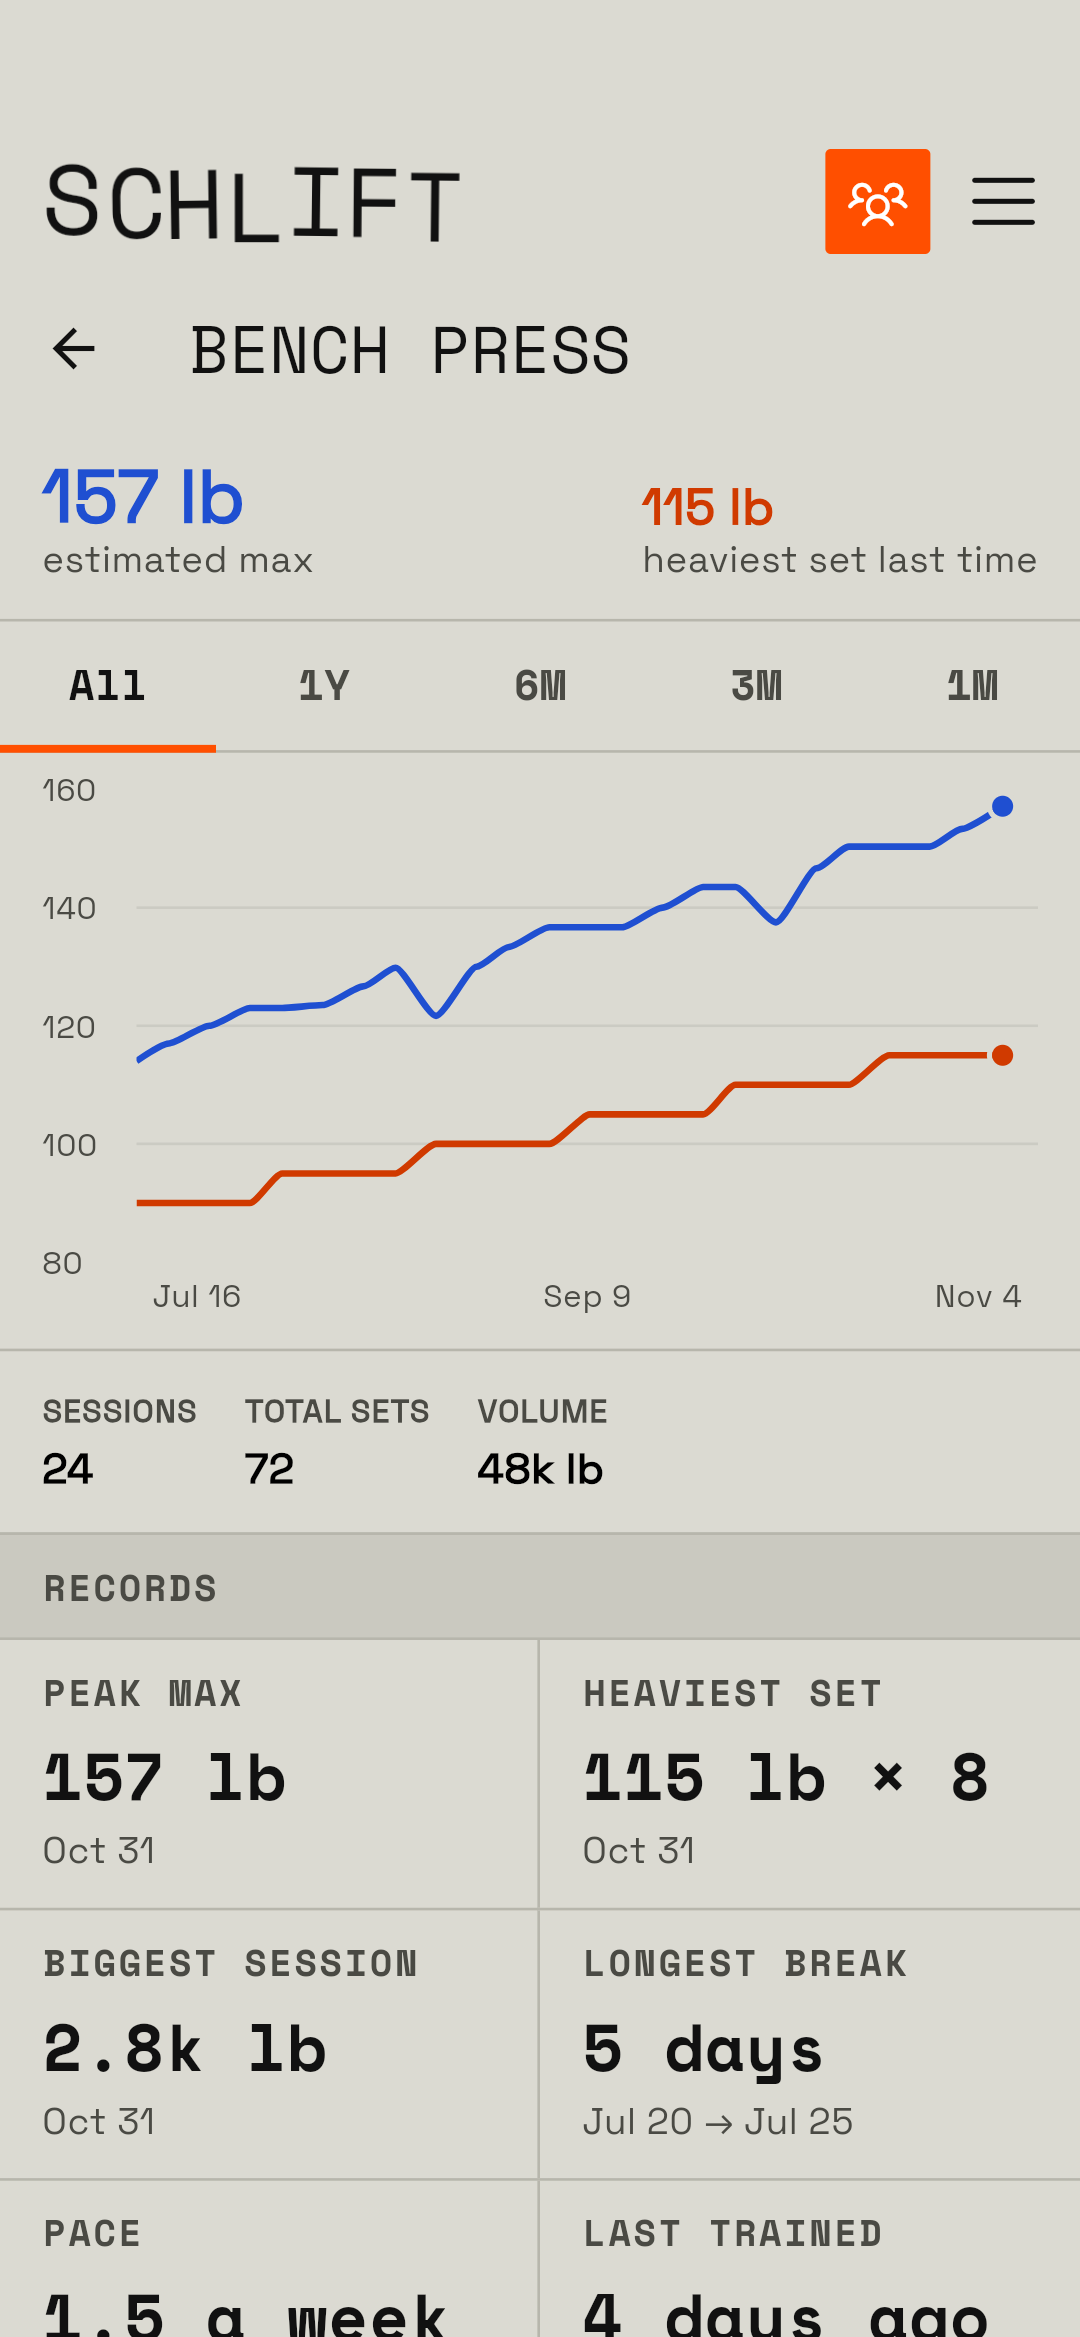
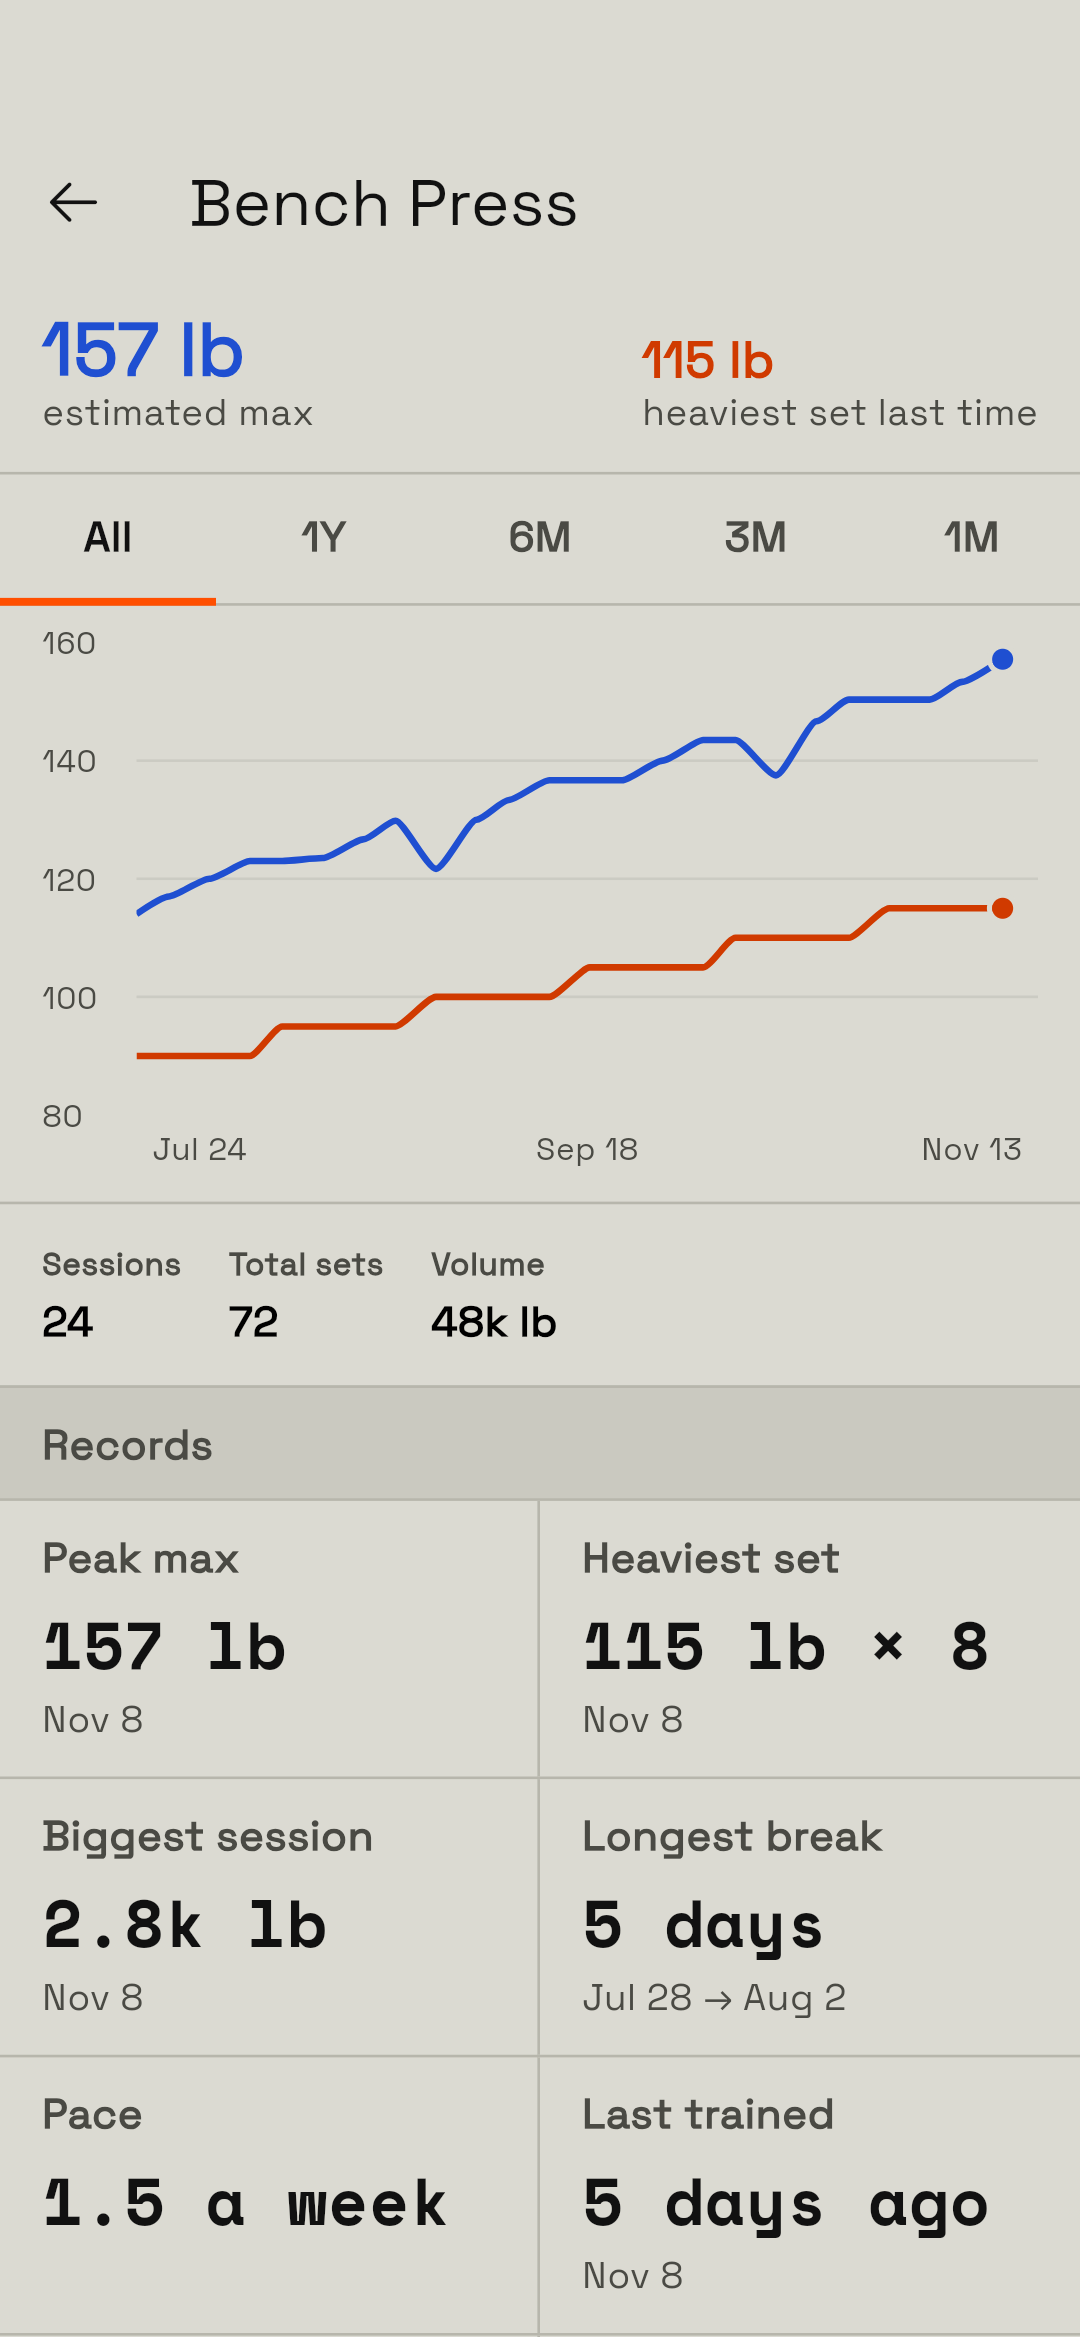
Scenarios, snapshots and store pictures for the new look
- e2e scenarios open the menu from home, and look for the new wording.
- Golden views carry the new (empty) motivation field: nothing else moved.
- Website: live status and motivation in the feature list, with drawings;
  the existing drawings lose their capitals.
- Store screenshots re-shot.
- The warmup/working row labels fit their rows again.

diff --git a/web/src/components/feature-art.tsx b/web/src/components/feature-art.tsx
@@ -17,7 +17,7 @@ function Multiplayer() {
     <g transform={`translate(22 ${y})`}>
       <rect width="156" height="58" rx="6" fill={PAPER} stroke={LINE} />
       <circle cx="29" cy="29" r="15" fill={lifting ? GO : "none"} stroke={lifting ? GO : INK} />
-      <text x="54" y="26" fontFamily={MONO} fontSize="11" fontWeight="700" fill={INK}>
+      <text x="54" y="26" fontSize="12" fontWeight="700" fill={INK}>
         {name}
       </text>
       <rect
@@ -32,10 +32,8 @@ function Multiplayer() {
       <text
         x="60"
         y="44"
-        fontFamily={MONO}
-        fontSize="9"
+        fontSize="9.5"
         fontWeight="700"
-        letterSpacing="0.6"
         fill={lifting ? "var(--color-on-primary)" : MUTED}
       >
         {state}
@@ -44,8 +42,8 @@ function Multiplayer() {
   );
   return (
     <>
-      {row(36, "YOU", "LIFTING", true)}
-      {row(106, "KENNETH", "YAPPING 4:12", false)}
+      {row(36, "You", "Lifting", true)}
+      {row(106, "Kenneth", "Yapping 4:12", false)}
     </>
   );
 }
@@ -74,10 +72,10 @@ function History() {
         <circle key={x} cx={x} cy={y} r="3" fill={PAPER} stroke={HOT} strokeWidth="2" />
       ))}
       <circle cx="178" cy="48" r="6" fill={HOT} />
-      <text x="20" y="28" fontFamily={MONO} fontSize="14" fontWeight="700" fill={INK}>
-        225LB BENCH
+      <text x="20" y="28" fontSize="14" fontWeight="700" fill={INK}>
+        225 lb bench
       </text>
-      <text x="20" y="43" fontFamily={MONO} fontSize="10" fill={MUTED}>
+      <text x="20" y="43" fontSize="10" fill={MUTED}>
         sick bro
       </text>
     </>
@@ -89,7 +87,7 @@ function Saved() {
   const card = (y: number, title: string, lifts: number, kept: boolean) => (
     <g transform={`translate(24 ${y})`}>
       <rect width="152" height="44" rx="6" fill={PAPER} stroke={kept ? HOT : LINE} />
-      <text x="12" y="19" fontFamily={MONO} fontSize="10" fontWeight="700" fill={INK}>
+      <text x="12" y="19" fontSize="11" fontWeight="700" fill={INK}>
         {title}
       </text>
       {Array.from({ length: lifts }, (_, i) => (
@@ -100,9 +98,9 @@ function Saved() {
   );
   return (
     <>
-      {card(28, "CHEST - OF COURSE", 5, true)}
-      {card(80, "LEG DAY (JK)", 4, false)}
-      {card(132, "BUTT AGAIN", 3, false)}
+      {card(28, "Chest - of course", 5, true)}
+      {card(80, "Leg day (jk)", 4, false)}
+      {card(132, "Butt again", 3, false)}
     </>
   );
 }
@@ -143,8 +141,8 @@ function HeartRate() {
           </g>
         ))}
         <rect x="30" y="69.4" width="140" height="26" fill={GO} />
-        <text x="44" y="86" fontFamily={MONO} fontSize="8.5" fontWeight="700" fill={INK}>
-          LIFTING
+        <text x="44" y="86" fontSize="9" fontWeight="700" fill={INK}>
+          Lifting
         </text>
         <text
           x="159"
@@ -211,11 +209,89 @@ function HeartRate() {
   );
 }
 
+/** The workout's quote, in its pop-up. */
+function Motivation() {
+  return (
+    <g transform="translate(20 30)">
+      <rect width="160" height="140" rx="10" fill={PAPER} stroke={LINE} />
+      <text x="14" y="26" fontSize="13" fill={MUTED}>
+        Motivation
+      </text>
+      <text fontSize="12.5" fontWeight="700" fill={INK}>
+        <tspan x="14" y="50">
+          lift more weight and
+        </tspan>
+        <tspan x="14" y="66">
+          you will become
+        </tspan>
+        <tspan x="14" y="82">
+          more huge.
+        </tspan>
+      </text>
+      <rect x="14" y="94" width="104" height="5" rx="2.5" fill={LINE} />
+      <rect x="14" y="103" width="78" height="5" rx="2.5" fill={LINE} />
+      <rect x="104" y="114" width="42" height="16" rx="5" fill={HOT} />
+      <text
+        x="125"
+        y="125.5"
+        textAnchor="middle"
+        fontSize="8.5"
+        fontWeight="700"
+        fill="var(--color-on-primary)"
+      >
+        Close
+      </text>
+    </g>
+  );
+}
+
+/** The rest counting down in the status bar, over somebody's feed. */
+function LiveStatus() {
+  return (
+    <>
+      {/* The phone, off the bottom of the box. */}
+      <rect
+        x="34"
+        y="18"
+        width="132"
+        height="240"
+        rx="18"
+        fill={PAPER}
+        stroke={INK}
+        strokeWidth="2"
+      />
+      {/* The status bar: the clock, and the rest's chip beside it. */}
+      <text x="48" y="40" fontFamily={MONO} fontSize="9" fontWeight="700" fill={INK}>
+        9:41
+      </text>
+      <rect x="74" y="29" width="46" height="15" rx="7.5" fill={INK} />
+      <circle cx="83" cy="36.5" r="3" fill={HOT} />
+      <text x="90" y="40" fontFamily={MONO} fontSize="9" fontWeight="700" fill={PAPER}>
+        1:23
+      </text>
+      <rect x="140" y="32" width="14" height="8" rx="2" fill="none" stroke={INK} />
+      <line x1="34" x2="166" y1="50" y2="50" stroke={LINE} />
+      {/* The feed being scrolled: who posted, the picture, the heart. */}
+      <circle cx="54" cy="66" r="7" fill={LINE} />
+      <rect x="66" y="60" width="52" height="5" rx="2.5" fill={LINE} />
+      <rect x="66" y="68" width="30" height="4" rx="2" fill={LINE} />
+      <rect x="44" y="80" width="112" height="84" rx="4" fill={LINE} opacity="0.6" />
+      <path d="M72 148 l20 -26 l14 16 l10 -10 l22 20 Z" fill={PAPER} opacity="0.9" />
+      <circle cx="128" cy="100" r="8" fill={PAPER} opacity="0.9" />
+      <path d="M52 176 c-3 -5 -10 -1 -6 5 l6 6 l6 -6 c4 -6 -3 -10 -6 -5 Z" fill={HOT} />
+      <rect x="66" y="176" width="60" height="5" rx="2.5" fill={LINE} />
+      <rect x="44" y="190" width="96" height="4" rx="2" fill={LINE} />
+    </>
+  );
+}
+
 const PICTURES: Record<string, () => React.ReactNode> = {
   multiplayer: Multiplayer,
   history: History,
   saved: Saved,
   heart_rate: HeartRate,
+  motivation: Motivation,
+  live_status: LiveStatus,
 };
 
 /** The drawing, whole and centred in its box, as large as fits. */

diff --git a/app/integration_test/store_shots_test.dart b/app/integration_test/store_shots_test.dart
@@ -25,7 +25,6 @@ import 'package:schlift/widgets/plate_visualization.dart';
 
 import 'support/api.dart';
 import 'support/scenario.dart';
-import 'package:schlift/theme/app_icons.dart';
 
 /// Feed heart rate the way the watch does: a batch of samples into the
 /// provider's wearable ingest path, covering the workout so far. Each call
@@ -102,7 +101,7 @@ void main() {
       await s.shot('Home');
 
       // 01 — progress charts (before the workout, so no timer bar overlays).
-      await s.tap(find.byIcon(AppIcons.menu));
+      await s.openMenu();
       await s.tapText('Progress');
       await s.settle(seconds: 3);
       await s.shot('Progress');
@@ -126,7 +125,7 @@ void main() {
       await s.shot('Exercise detail');
 
       // 03 — history.
-      await s.tap(find.byIcon(AppIcons.menu));
+      await s.openMenu();
       await s.tapText('History');
       await s.settle(seconds: 3);
       await s.shot('History');
@@ -134,13 +133,13 @@ void main() {
       // Switch to the account that is 24 minutes into a session (seeded by
       // SEED_DEMO_USER as `demo-live`); the app resumes straight into it. On
       // an unseeded backend it is a new account: onboard, seed, start one.
-      await s.tap(find.byIcon(AppIcons.menu));
+      await s.openMenu();
       await s.tapText('Logout');
       await s.devLogin('demo-live');
       await s.completeOnboarding();
-      // The workout screen's Heart tab: there is no Start on home to wait
+      // The live workout's Heart box: there is no Start on home to wait
       // for when the app resumes into the live session.
-      if (!await s.waitForText('Heart', seconds: 10)) {
+      if (!await s.waitFor(s.heartBox, seconds: 10)) {
         final live = await s.api.login('demo-live');
         if (await seedThinHistoryIfNeeded(live)) {
           s.note(
@@ -180,8 +179,8 @@ void main() {
       );
       await s.shot('Resting');
 
-      // 07 — the Heart tab: the trace over the session.
-      await s.tapText('Heart');
+      // 07 — the Heart page: the trace over the session.
+      await s.openHeart();
       await s.settle(seconds: 2);
       await feedHeartRate(
         tester,

diff --git a/app/integration_test/support/scenario.dart b/app/integration_test/support/scenario.dart
@@ -23,6 +23,7 @@ import 'package:schlift/providers/workout_provider.dart';
 import 'package:schlift/screens/workout/set_circle.dart';
 import 'package:schlift/services/account_sync.dart';
 import 'package:schlift/services/notification_service.dart';
+import 'package:schlift/theme/app_icons.dart';
 import 'package:schlift/widgets/dialogs/rung_question_dialog.dart';
 
 import 'package:schlift/gen/workout/v1/workout.pb.dart';
@@ -366,6 +367,26 @@ class Scenario {
     return false;
   }
 
+  /// Open the menu. It lives on home (and the live workout) only: from a
+  /// page pushed over it, go back until home is on show.
+  Future<void> openMenu() async {
+    for (
+      var i = 0;
+      i < 5 && find.byIcon(AppIcons.menu).evaluate().isEmpty;
+      i++
+    ) {
+      await tap(find.byIcon(AppIcons.back));
+      await settle(seconds: 1);
+    }
+    await tap(find.byIcon(AppIcons.menu));
+  }
+
+  /// Open the live workout's Heart page, from its box over the status box.
+  Future<void> openHeart() => tap(heartBox);
+
+  /// The Heart box: on show only while a workout is live.
+  Finder get heartBox => find.byTooltip(copy.workoutPage.tabHeart);
+
   /// Open the multiplayer sheet from the top row (home or the workout).
   Future<void> openMultiplayer() => tap(find.byTooltip(copy.menu.multiplayer));
 
@@ -690,7 +711,7 @@ class Scenario {
     // The dialog's confirm button.
     await tap(find.text(copy.endWorkoutDialog.confirm).last);
     // The summary's first section.
-    await mustSee('SESSION', seconds: 15);
+    await mustSee(copy.summary.session, seconds: 15);
     await declineTemplateOffer();
   }
 

diff --git a/app/integration_test/history_graphs_test.dart b/app/integration_test/history_graphs_test.dart
@@ -6,7 +6,6 @@ import 'package:integration_test/integration_test.dart';
 import 'package:schlift/gen/workout/v1/workout.pbgrpc.dart';
 
 import 'support/scenario.dart';
-import 'package:schlift/theme/app_icons.dart';
 
 void main() {
   final binding = IntegrationTestWidgetsFlutterBinding.ensureInitialized();
@@ -31,13 +30,13 @@ void main() {
     s.note('Seeded 5 progressive workouts', kind: 'api');
 
     // Progress (graphs).
-    await s.tap(find.byIcon(AppIcons.menu));
+    await s.openMenu();
     await s.tapText('Progress');
     await s.settle(seconds: 4);
     await s.shot('Progress screen', note: 'Weight-over-time per exercise.');
 
     // History.
-    await s.tap(find.byIcon(AppIcons.menu));
+    await s.openMenu();
     await s.tapText('History');
     await s.settle(seconds: 3);
     await s.shot('History screen', note: 'Past workouts list.');

diff --git a/app/integration_test/discard_workout_test.dart b/app/integration_test/discard_workout_test.dart
@@ -40,12 +40,12 @@ void main() {
       await s.endWorkoutAndWaitForSummary();
       await s.tap(find.byIcon(AppIcons.back));
       await s.settle(seconds: 2);
-      await s.tap(find.byIcon(AppIcons.menu));
+      await s.openMenu();
       await s.tapText('History');
       await s.settle(seconds: 3);
       await s.shot('History: one workout');
       await s.tap(find.textContaining('StrongLifts').first);
-      await s.mustSee('Session', seconds: 15);
+      await s.mustSee(copy.summary.session, seconds: 15);
       await s.tapText(copy.workout.discardWorkout);
       await s.mustSee(copy.workout.discardTitle, seconds: 6);
       await s.tap(find.text(copy.workout.discardConfirm).last);

diff --git a/app/integration_test/solo_workout_finish_test.dart b/app/integration_test/solo_workout_finish_test.dart
@@ -42,7 +42,7 @@ void main() {
       await s.tap(find.text('End Workout').last); // dialog's confirm button
 
       // Land on the workout summary.
-      await s.mustSee('SESSION', seconds: 15);
+      await s.mustSee(copy.summary.session, seconds: 15);
       await s.shot(
         'Session snapshot',
         note: 'Workout ended; Duration / Volume / Sets and the time tiles.',
@@ -56,7 +56,7 @@ void main() {
         copy.workout.yapping,
       ]) {
         expect(
-          s.isVisible(tile.toUpperCase()),
+          s.isVisible(tile),
           isTrue,
           reason: 'the summary should show the $tile tile',
         );

diff --git a/app/integration_test/history_with_partner_test.dart b/app/integration_test/history_with_partner_test.dart
@@ -11,7 +11,6 @@ import 'package:integration_test/integration_test.dart';
 import 'package:schlift/gen/workout/v1/workout.pbgrpc.dart';
 
 import 'support/scenario.dart';
-import 'package:schlift/theme/app_icons.dart';
 
 void main() {
   final binding = IntegrationTestWidgetsFlutterBinding.ensureInitialized();
@@ -55,7 +54,7 @@ void main() {
     await s.finishWorkoutInApp();
 
     // History should list the workout with "with bob_...".
-    await s.tap(find.byIcon(AppIcons.menu));
+    await s.openMenu();
     await s.tapText('History');
     final sawPartner = await s.waitForTextContaining(
       'with bob_$stamp',

diff --git a/app/integration_test/exercise_detail_test.dart b/app/integration_test/exercise_detail_test.dart
@@ -10,7 +10,6 @@ import 'package:schlift/gen/workout/v1/workout.pbgrpc.dart';
 import 'package:schlift/logic/utils.dart';
 
 import 'support/scenario.dart';
-import 'package:schlift/theme/app_icons.dart';
 
 void main() {
   final binding = IntegrationTestWidgetsFlutterBinding.ensureInitialized();
@@ -34,7 +33,7 @@ void main() {
     s.note('Seeded 5 progressive workouts', kind: 'api');
     await s.waitForAppToCatchUp(api);
 
-    await s.tap(find.byIcon(AppIcons.menu));
+    await s.openMenu();
     await s.tapText('Progress');
     await s.settle(seconds: 4);
     await s.shot('Progress screen');

diff --git a/app/lib/screens/workout/exercise_section.dart b/app/lib/screens/workout/exercise_section.dart
@@ -363,7 +363,12 @@ class _CircleRowState extends State<_CircleRow> {
           child: Center(
             child: RotatedBox(
               quarterTurns: 3,
-              child: Text(widget.label, maxLines: 1, style: t.label()),
+              child: Text(
+                widget.label,
+                maxLines: 1,
+                // Smaller than a heading: it has a circle's height to fit in.
+                style: t.label().copyWith(fontSize: t.size.caption),
+              ),
             ),
           ),
         ),

diff --git a/app/integration_test/settings_shot_test.dart b/app/integration_test/settings_shot_test.dart
@@ -16,7 +16,7 @@ void main() {
     await s.completeOnboarding();
 
     // Settings is the cog at the foot of the menu.
-    await s.tap(find.byIcon(AppIcons.menu));
+    await s.openMenu();
     await s.settle(seconds: 1);
     await s.tap(find.byIcon(AppIcons.settings));
     await s.settle(seconds: 2);

diff --git a/changes/next.md b/changes/next.md
@@ -13,3 +13,4 @@
 - Multiplayer is a button at the top of home and the workout; heart rate, time and the log open from boxes above your status.
 - Editing a ready-made workout says Edit, and makes it yours when you save.
 - Your workout shows as a live status while the app is out of sight, with its clock: on Android in your notifications, lock screen and status bar, on iPhone on the lock screen and in the Dynamic Island.
+- The website lists live status and motivation, and its pictures and the store screenshots show the new look.
